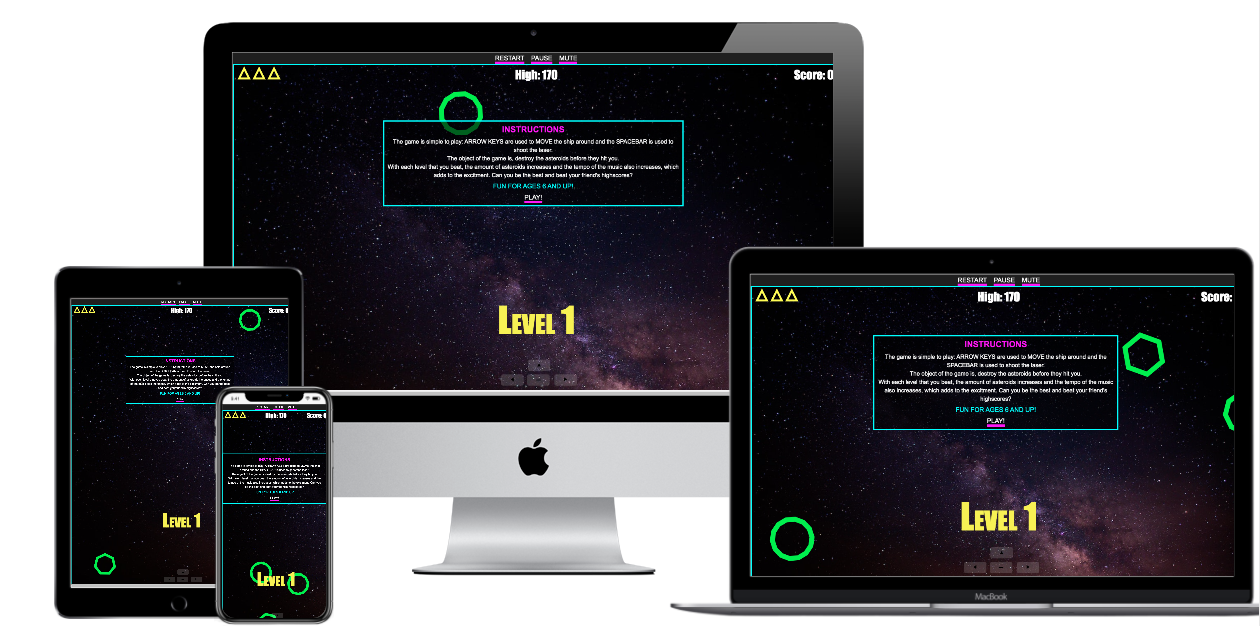
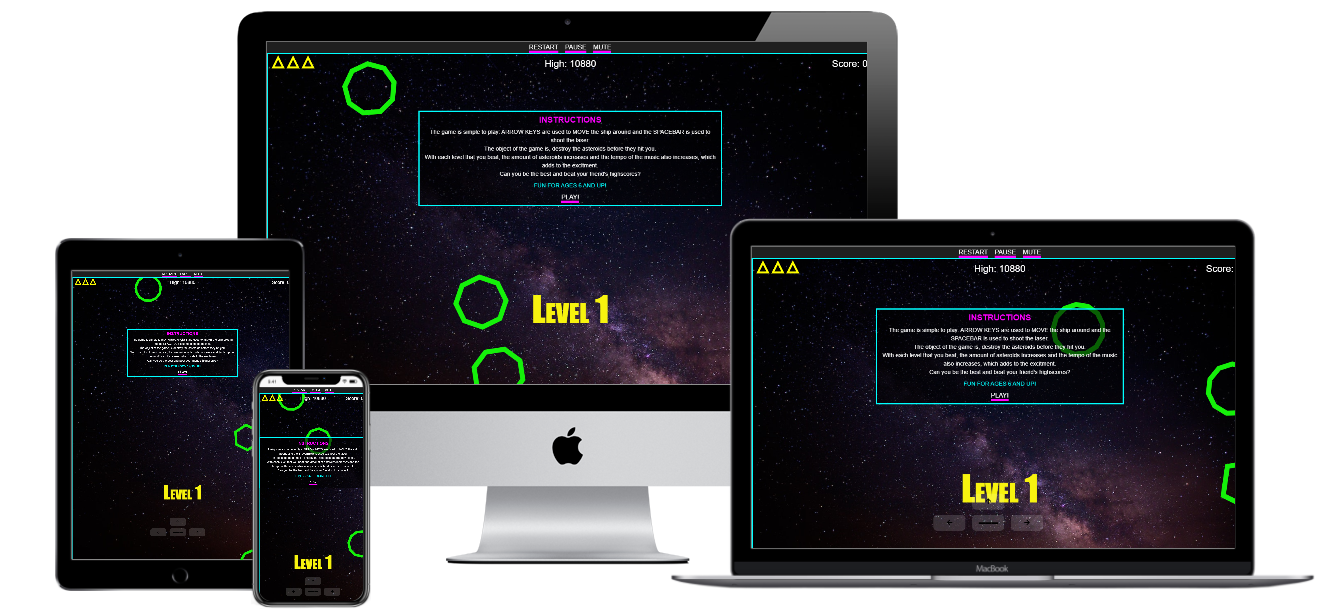
Updated mockup image in README and in styles.css changed overflow to overflow-x

Changed region(s): [[0.031, 0.0, 1.0, 1.0]]

diff --git a/assets/css/styles.css b/assets/css/styles.css
@@ -9,7 +9,7 @@
 html {
     width: 100%;
     height: 100%;
-    overflow: hidden;
+    overflow-x: hidden;
 }
 
 body {
@@ -17,7 +17,7 @@ body {
     min-height: 100%;
     width: 100%;
     display: grid;
-    overflow: hidden;
+    overflow-x: hidden;
 }
 
 /* navbar styles */
